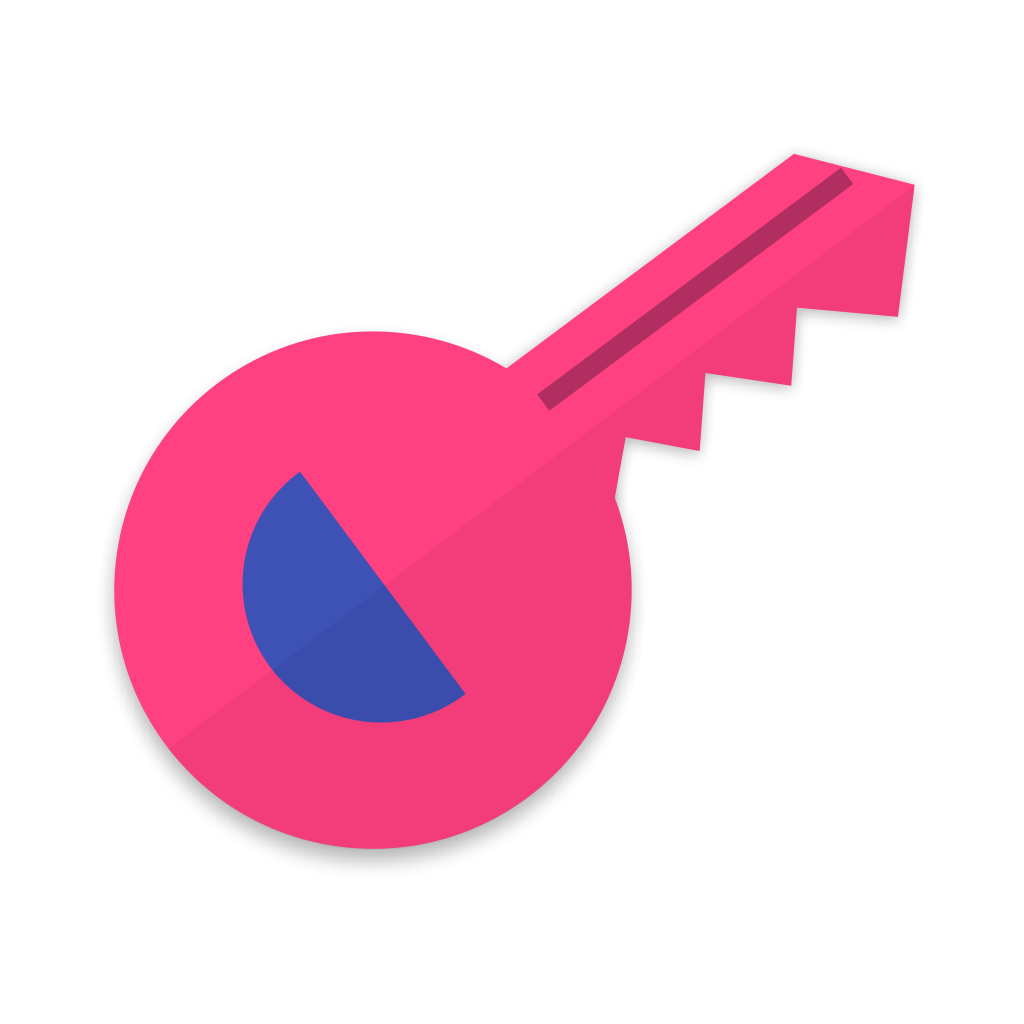
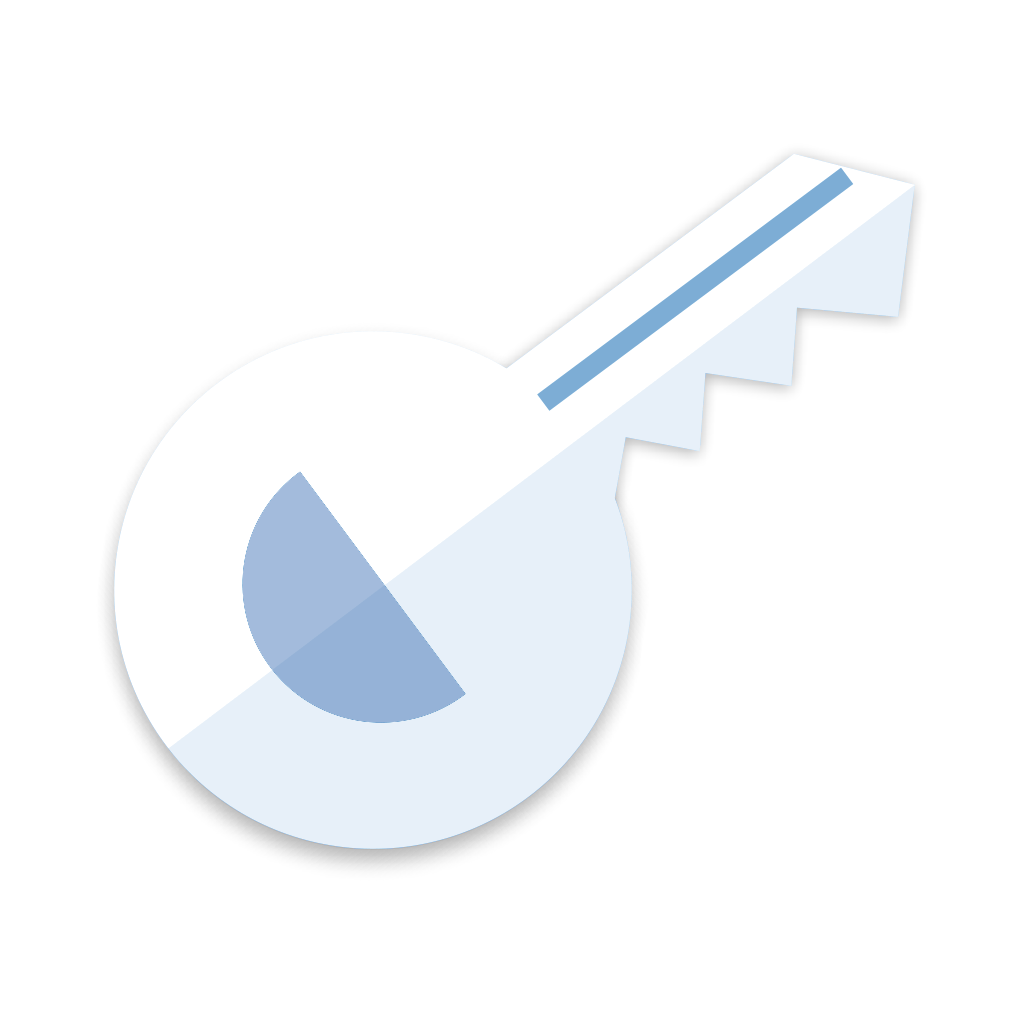
UI update

Changed region(s): [[0.0938, 0.1562, 0.9062, 0.8438]]

diff --git a/MLogger-UWP/Views/MainPage.xaml b/MLogger-UWP/Views/MainPage.xaml
@@ -40,15 +40,22 @@
             </VisualStateGroup>
         </VisualStateManager.VisualStateGroups>
 
-        <Grid>
-            <StackPanel x:Name="UsrInfoPanel" Margin="0,0,0,50" Orientation="Vertical" HorizontalAlignment="Center" VerticalAlignment="Center" >
+        <RelativePanel>
+            <StackPanel 
+                RelativePanel.AlignVerticalCenterWithPanel="True"
+                RelativePanel.AlignHorizontalCenterWithPanel="True"
+                x:Name="UsrInfoPanel" 
+                Margin="0,0,0,50" 
+                Orientation="Vertical" 
+                HorizontalAlignment="Center" 
+                VerticalAlignment="Center" > 
                 <Image 
                     x:Name="LogoImg" 
                     Source="/Assets/mlogger.png" 
                     Width="170" 
                     Height="170" 
                     Stretch="Uniform" 
-                    Margin="20"  />
+                    Margin="20"  /> 
                 <StackPanel 
                     HorizontalAlignment="Center" 
                     VerticalAlignment="Center" 
@@ -70,30 +77,32 @@
                         PlaceholderText="Password"/>
                     <Button 
                         x:Name="LoginButton" 
-                        Background="#FFFF4081" 
+                        Background="#FF0063b1" 
                         Foreground="White" 
                         Content="Login" 
                         Click="LoginButton_Click" 
                         Width="80" 
                         HorizontalAlignment="Center" 
-                        Margin="0,0,0,20" />
+                        Margin="0,0,0,0" />
                 </StackPanel>
             </StackPanel>
-            <Grid>
-                <!--copyright-->
-                <Grid.RowDefinitions>
-                    <RowDefinition Height="3*"/>
-                    <RowDefinition Height="*"/>
-                </Grid.RowDefinitions>
-                <TextBlock 
-                    x:Name="InfoTextBlock" 
-                    Grid.Row="1" 
-                    Text="MLogger, Maple Leaf Wifi Logger, an alternative of login webpage." 
-                    TextAlignment="Center" VerticalAlignment="Center" 
-                    FontSize="14"/>
-            </Grid>
-        </Grid>
+            <Border 
+                
+                BorderThickness="0" 
+                Background="#FF0063b1" 
+                RelativePanel.AlignBottomWithPanel="True"
+                RelativePanel.AlignLeftWithPanel="True"
+                RelativePanel.AlignRightWithPanel="True"
+                BorderBrush="#FF0063b1">
+                <RelativePanel>
+                    <TextBlock 
+                        Name="InfoTextBlock" 
+                        FontSize="12"
+                        Text="MLogger, Maple Leaf Wifi Logger, an alternative of login webpage."  
+                        Margin="8,6,0,6" />
+                </RelativePanel>
+            </Border>
+
+        </RelativePanel>
     </Grid>
-
-
 </Page>

diff --git a/MLogger-UWP/Styles/Custom.xaml b/MLogger-UWP/Styles/Custom.xaml
@@ -8,13 +8,15 @@
 
     <x:Double x:Key="NarrowMinHeight">100</x:Double>
     <x:Double x:Key="NormalMinHeight">300</x:Double>
-
+<!-- Pink
     <Color x:Key="CustomColor">#FFFF4081</Color>
-    <!--Main color and -->
     <Color x:Key="ContrastColor">White</Color>
-    <!--Title bar text color-->
     <Color x:Key="SystemAccentColor">#FFF23D7A</Color>
-    <!--unknown-->
+-->
 
+    <Color x:Key="CustomColor">#FF0063b1</Color>
+    <Color x:Key="ContrastColor">White</Color>
+    <Color x:Key="SystemAccentColor">#FF0063b1</Color>
+    <!--unknown-->
 </ResourceDictionary>
 

diff --git a/MLogger-UWP/Views/MainPage.xaml.cs b/MLogger-UWP/Views/MainPage.xaml.cs
@@ -14,7 +14,7 @@ namespace MLogger_UWP.Views {
         ApplicationDataContainer AppData = ApplicationData.Current.LocalSettings;
         
         public MainPage() {
-            SetUI();
+            SetUIBlack();
             InitializeComponent();
             InitAppData();
             // LoginButton.Focus(FocusState.Programmatic);
@@ -24,7 +24,23 @@ namespace MLogger_UWP.Views {
             }
         }
 
-        void SetUI() {
+        void SetUIBlue() {
+            var titleBar = ApplicationView.GetForCurrentView().TitleBar;
+            titleBar.BackgroundColor = Windows.UI.Color.FromArgb(255, 0, 99, 177);
+            titleBar.ForegroundColor = Windows.UI.Colors.White;
+            titleBar.ButtonBackgroundColor = Windows.UI.Color.FromArgb(255, 0, 99, 177);
+            titleBar.ButtonForegroundColor = Windows.UI.Colors.White;
+            titleBar.ButtonPressedBackgroundColor = Windows.UI.Color.FromArgb(0, 25, 114, 184);
+            titleBar.ButtonPressedForegroundColor = Windows.UI.Colors.White;
+            titleBar.ButtonInactiveBackgroundColor = Windows.UI.Color.FromArgb(255, 0, 99, 177);
+            titleBar.ButtonInactiveForegroundColor = Windows.UI.Colors.LightGray;
+            titleBar.InactiveBackgroundColor = Windows.UI.Color.FromArgb(255, 0, 99, 177);
+            titleBar.InactiveForegroundColor = Windows.UI.Colors.LightGray;
+            titleBar.ButtonHoverBackgroundColor = Windows.UI.Color.FromArgb(0, 25, 114, 184);
+            titleBar.ButtonHoverForegroundColor = Windows.UI.Colors.White;
+        }
+
+        void SetUIPink() {
             var titleBar = ApplicationView.GetForCurrentView().TitleBar;
             titleBar.BackgroundColor = Windows.UI.Color.FromArgb(255, 255, 64, 129);
             titleBar.ForegroundColor = Windows.UI.Colors.White;
@@ -37,6 +53,22 @@ namespace MLogger_UWP.Views {
             titleBar.InactiveBackgroundColor = Windows.UI.Color.FromArgb(255, 255, 64, 129);
             titleBar.InactiveForegroundColor = Windows.UI.Colors.LightGray;
             titleBar.ButtonHoverBackgroundColor = Windows.UI.Color.FromArgb(125, 242, 61, 122);
+            titleBar.ButtonHoverForegroundColor = Windows.UI.Colors.White;
+        }
+
+        void SetUIBlack() {
+            var titleBar = ApplicationView.GetForCurrentView().TitleBar;
+            titleBar.BackgroundColor = Windows.UI.Color.FromArgb(255, 0, 0, 0);
+            titleBar.ForegroundColor = Windows.UI.Colors.White;
+            titleBar.ButtonBackgroundColor = Windows.UI.Color.FromArgb(255, 0, 0, 0);
+            titleBar.ButtonForegroundColor = Windows.UI.Colors.White;
+            titleBar.ButtonPressedBackgroundColor = Windows.UI.Color.FromArgb(125, 0, 0, 0);
+            titleBar.ButtonPressedForegroundColor = Windows.UI.Colors.White;
+            titleBar.ButtonInactiveBackgroundColor = Windows.UI.Color.FromArgb(255, 0, 0, 0);
+            titleBar.ButtonInactiveForegroundColor = Windows.UI.Colors.LightGray;
+            titleBar.InactiveBackgroundColor = Windows.UI.Color.FromArgb(255, 0, 0, 0);
+            titleBar.InactiveForegroundColor = Windows.UI.Colors.LightGray;
+            titleBar.ButtonHoverBackgroundColor = Windows.UI.Color.FromArgb(125, 0, 0, 0);
             titleBar.ButtonHoverForegroundColor = Windows.UI.Colors.White;
         }
 
@@ -73,6 +105,7 @@ namespace MLogger_UWP.Views {
 
         async void Login() {
 
+            SetUIBlue();
             Views.Busy.SetBusy(true, "Kissing");
 
             if (UsernameTextBox.Text != "" && PasswordTextBox.Password != "") {
@@ -110,6 +143,7 @@ namespace MLogger_UWP.Views {
             }
 
             Views.Busy.SetBusy(false);
+            SetUIBlack();
         }
 
         private void LoginButton_Click(object sender, Windows.UI.Xaml.RoutedEventArgs e) {
